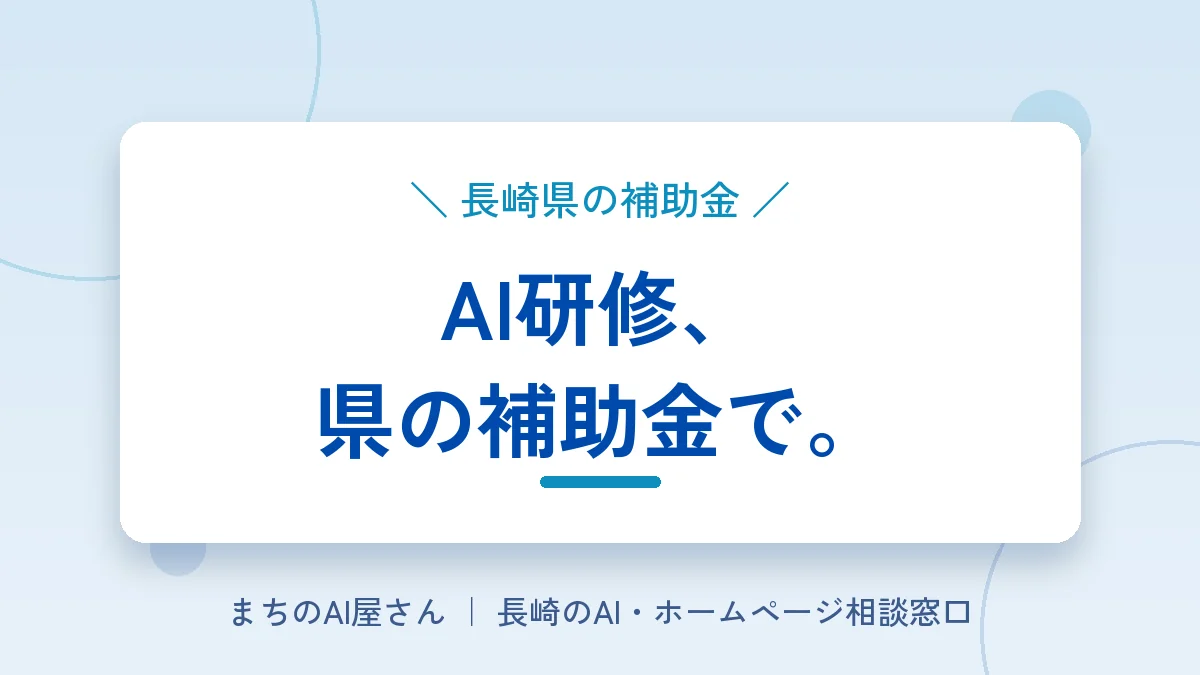
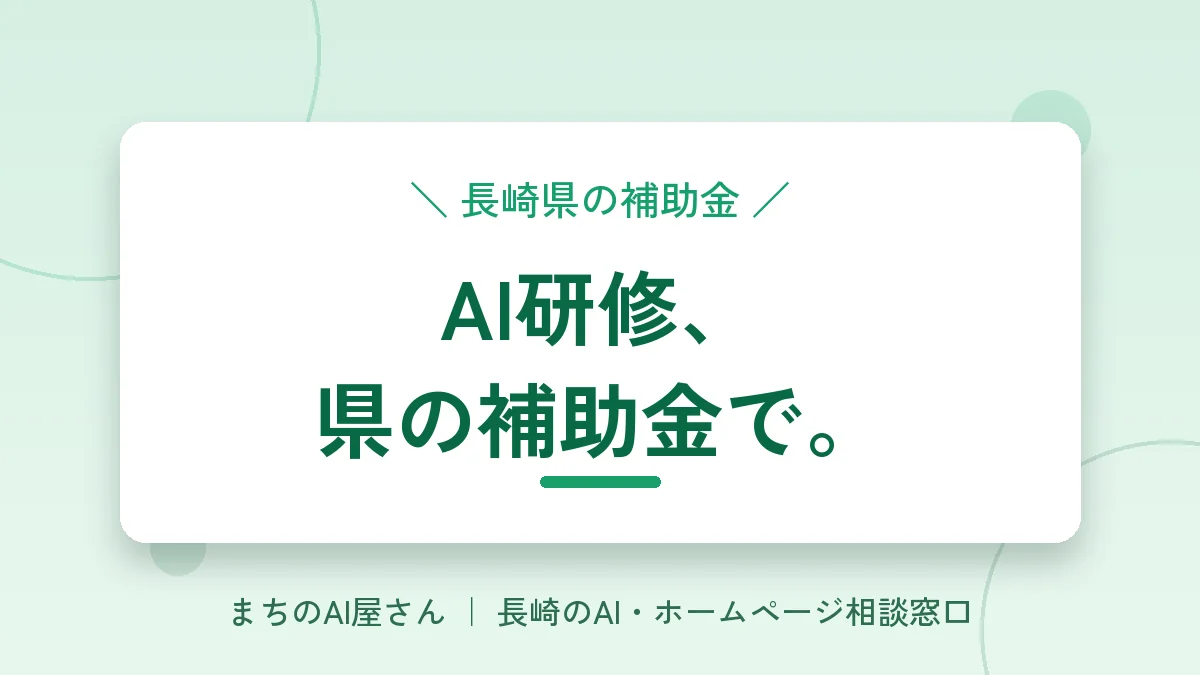
Color-code thumbnails by article category
- tutorial=青 / subsidy=緑 / news=オレンジ / case=紫
- generate-thumbnails.pyがfrontmatterのcategoryを自動判定して配色

diff --git a/scripts/generate-thumbnails.py b/scripts/generate-thumbnails.py
@@ -14,9 +14,27 @@ FB = os.path.join(HERE, "fonts", "ZenKakuGothicNew-Bold.ttf")
 FM = os.path.join(HERE, "fonts", "ZenKakuGothicNew-Medium.ttf")
 
 W, H = 1200, 675
-NAVY = (0, 74, 173)
-BLUE = (14, 143, 190)
 WHITE = (255, 255, 255)
+
+# カテゴリ別配色: primary=メイン文字, accent=タグ・バー, bg_top/bg_bottom=背景グラデ, footer=下部文字
+PALETTES = {
+    "tutorial": {  # ブランド青
+        "primary": (0, 74, 173), "accent": (14, 143, 190),
+        "bg_top": (214, 232, 246), "bg_bottom": (232, 242, 250), "footer": (60, 90, 140),
+    },
+    "subsidy": {   # 緑（お金・安心）
+        "primary": (9, 106, 68), "accent": (23, 160, 107),
+        "bg_top": (214, 240, 227), "bg_bottom": (232, 248, 239), "footer": (46, 110, 82),
+    },
+    "news": {      # オレンジ（新着・話題）
+        "primary": (176, 84, 8), "accent": (236, 144, 48),
+        "bg_top": (250, 234, 216), "bg_bottom": (252, 243, 231), "footer": (150, 96, 48),
+    },
+    "case": {      # 紫（ストーリー・事例）
+        "primary": (85, 58, 160), "accent": (139, 111, 216),
+        "bg_top": (232, 228, 246), "bg_bottom": (242, 240, 250), "footer": (98, 80, 150),
+    },
+}
 
 ARTICLES = {
     "nagasaki-chusho-ai-riyuu":        ("長崎 × AI活用", "人が来ないなら、", "仕事を軽くする。"),
@@ -53,36 +71,50 @@ def center(d, cx, y, text, font, fill):
     d.text((cx - (b[2] - b[0]) / 2, y), text, font=font, fill=fill)
 
 
-def make(tag, line1, line2, path):
-    img = Image.new("RGB", (W, H), (225, 238, 248))
+def read_category(slug):
+    p = os.path.join(HERE, "..", "src", "content", "blog", slug + ".md")
+    with open(p, encoding="utf-8") as f:
+        for line in f:
+            if line.startswith("category:"):
+                return line.split(":", 1)[1].strip()
+    return "tutorial"
+
+
+def make(tag, line1, line2, path, pal):
+    primary, accent = pal["primary"], pal["accent"]
+    bt, bb = pal["bg_top"], pal["bg_bottom"]
+    img = Image.new("RGB", (W, H), bb)
     d = ImageDraw.Draw(img, "RGBA")
     for yy in range(H):
         t = yy / H
-        d.line([(0, yy), (W, yy)], fill=(int(214 + 18 * t), int(232 + 10 * t), int(246 + 4 * t)))
-    d.ellipse([-140, -180, 320, 280], outline=(14, 143, 190, 50), width=4)
-    d.ellipse([980, 440, 1360, 820], outline=(0, 74, 173, 40), width=4)
-    d.ellipse([1010, 90, 1090, 170], fill=(14, 143, 190, 36))
-    d.ellipse([150, 520, 205, 575], fill=(0, 74, 173, 30))
+        d.line([(0, yy), (W, yy)], fill=tuple(int(bt[i] + (bb[i] - bt[i]) * t) for i in range(3)))
+    d.ellipse([-140, -180, 320, 280], outline=accent + (50,), width=4)
+    d.ellipse([980, 440, 1360, 820], outline=primary + (40,), width=4)
+    d.ellipse([1010, 90, 1090, 170], fill=accent + (36,))
+    d.ellipse([150, 520, 205, 575], fill=primary + (30,))
 
     sh = Image.new("RGBA", (W, H), (0, 0, 0, 0))
-    ImageDraw.Draw(sh).rounded_rectangle([120, 132, 1080, 552], radius=26, fill=(0, 50, 120, 60))
+    ImageDraw.Draw(sh).rounded_rectangle([120, 132, 1080, 552], radius=26,
+                                         fill=(primary[0] // 3, primary[1] // 3, primary[2] // 3, 60))
     sh = sh.filter(ImageFilter.GaussianBlur(16))
     img.paste(sh, (0, 10), sh)
     d.rounded_rectangle([120, 122, 1080, 542], radius=26, fill=WHITE)
 
-    center(d, 600, 168, "＼ " + tag + " ／", ImageFont.truetype(FM, 40), BLUE)
+    center(d, 600, 168, "＼ " + tag + " ／", ImageFont.truetype(FM, 40), accent)
     f_main = ImageFont.truetype(FB, 82)
-    center(d, 600, 244, line1, f_main, NAVY)
-    center(d, 600, 356, line2, f_main, NAVY)
-    d.rounded_rectangle([540, 476, 660, 487], radius=5, fill=BLUE)
-    center(d, 600, 586, "まちのAI屋さん ｜ 長崎のAI・ホームページ相談窓口", ImageFont.truetype(FM, 32), (60, 90, 140))
+    center(d, 600, 244, line1, f_main, primary)
+    center(d, 600, 356, line2, f_main, primary)
+    d.rounded_rectangle([540, 476, 660, 487], radius=5, fill=accent)
+    center(d, 600, 586, "まちのAI屋さん ｜ 長崎のAI・ホームページ相談窓口", ImageFont.truetype(FM, 32), pal["footer"])
 
     img.save(path, "WEBP", quality=85, method=6)
 
 
 if __name__ == "__main__":
     for slug, (tag, l1, l2) in ARTICLES.items():
+        cat = read_category(slug)
+        pal = PALETTES.get(cat, PALETTES["tutorial"])
         p = os.path.join(OUT, f"thumb-{slug}.webp")
-        make(tag, l1, l2, p)
-        print(f"thumb-{slug}.webp  {os.path.getsize(p)//1024}KB")
+        make(tag, l1, l2, p, pal)
+        print(f"thumb-{slug}.webp  [{cat}]  {os.path.getsize(p)//1024}KB")
     print(f"done: {len(ARTICLES)} thumbnails")
